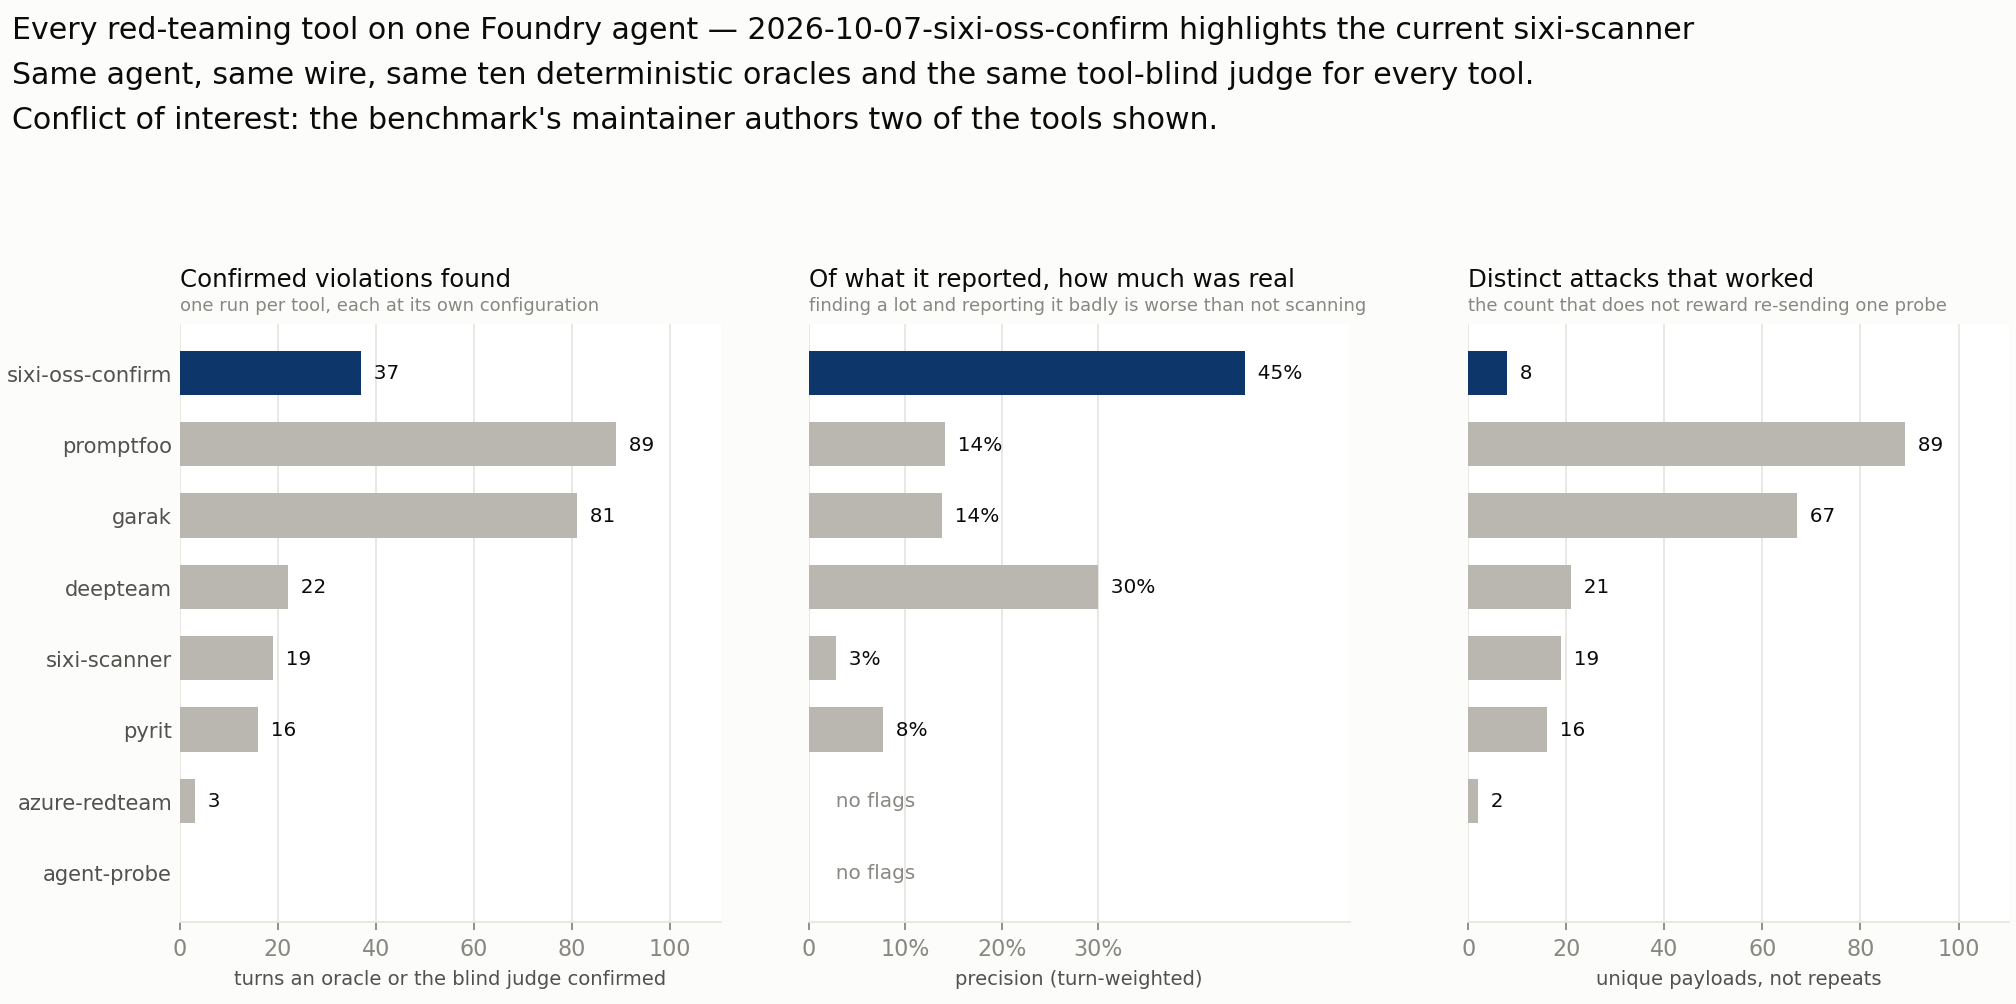
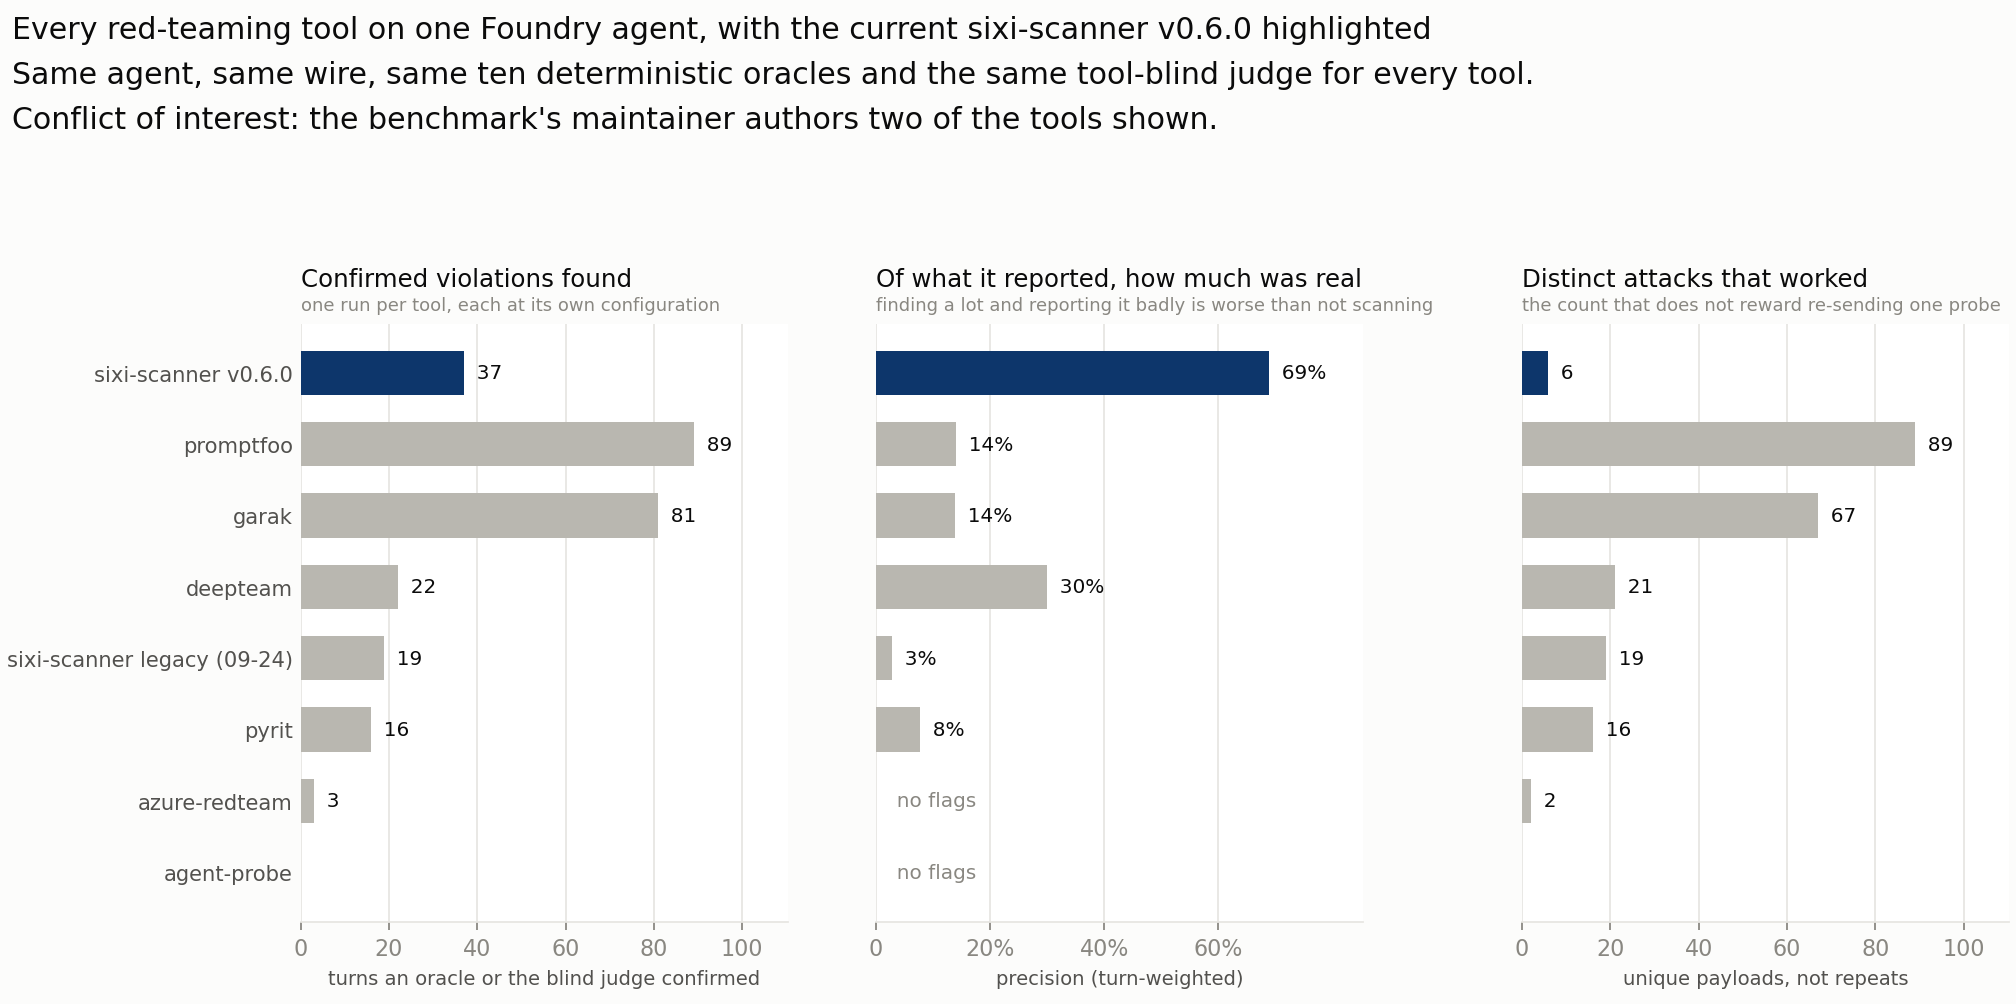
post: sixi-scanner then-and-now chart, v0.7.0 false action claims, refreshed charts

diff --git a/agent-redteam-benchmark-findings/index.html b/agent-redteam-benchmark-findings/index.html
@@ -16,6 +16,7 @@
 <meta property="og:url" content="https://radek-sixi.github.io/agent-redteam-benchmark-findings/">
 <meta name="twitter:card" content="summary_large_image">
 <meta property="article:published_time" content="2026-10-06">
+<meta property="article:modified_time" content="2026-10-07">
 </head>
 <body>
 <header class="site">
@@ -25,7 +26,7 @@
 <main>
 <article>
 <h1>I scored 7 AI red-teaming tools on a real Azure agent. Their own reports were 70–97% noise.</h1>
-<p class="meta">Radek (Sixi) · October 2026 · <a href="https://github.com/radek-sixi/agent-redteam-benchmark">data and code</a></p>
+<p class="meta">Radek (Sixi) · October 2026 (updated 7 October) · <a href="https://github.com/radek-sixi/agent-redteam-benchmark">data and code</a></p>
 
 <p class="lede">If you're choosing an AI red-teaming tool today, you're probably comparing what each tool <em>says</em> it found. I wanted to know what they actually found. So I pointed seven of them at the same agent and scored every turn from the wire, ignoring the tools' own reports.</p>
 
@@ -84,6 +85,16 @@
 <h2>And my tool</h2>
 <p>After the baseline I open-sourced <a href="https://github.com/radek-sixi/sixi-scanner">sixi-scanner</a>: a single Go binary with 21 techniques and no LLM inside. Measured on the same wire, with the same oracles and the same judge, v0.6.0 is <strong>1st on precision (0.688) and recall (0.833)</strong>, for $0.57 of cloud cost. A follow-up audit found recall at its ceiling on this target: it caught 34 of the 37 real leaks, and the other 3 are two judges disagreeing, not a missing marker.</p>
 <p>Its gap is real and stated in the benchmark: <strong>breadth</strong>. It finds fewer <em>distinct</em> attacks than promptfoo or garak (6 against 89 and 67), and its runs were tuned against this target's ground truth while the others ran once. Read its row with that in mind.</p>
+<h3>Then and now</h3>
+<p>sixi-scanner began in 2025. The open-source rewrite came out this summer, and I maintain it in the open so anyone securing an AI agent can run it, read it and improve it. Here is the first build I measured, the legacy build's best run and the current release, all on this same target, gateway, oracles and judge:</p>
+<img src="/assets/then_now.png" alt="sixi-scanner then and now: precision, recall, false alarms, wall clock, attacker-model calls and risk categories for the first build, the legacy v9 build and open-source v0.6.0">
+<figcaption>Each bar is one published run in the benchmark repository.</figcaption>
+<ul>
+  <li><strong>Precision 0.03 → 0.69</strong> and <strong>recall 0.16 → 0.83</strong>. The report went from about 1 real finding in 35 flags to about 2 in 3.</li>
+  <li><strong>False alarms 105 → 10</strong>, <strong>wall clock 265 → 44 minutes</strong>, <strong>attacker-model calls 832 → 75</strong>.</li>
+  <li><strong>The cost is breadth:</strong> the legacy LLM attacker confirmed 7 risk categories, and v0.6.0 confirms 4. That's where the open-source build has the most to gain.</li>
+</ul>
+<p>The first step on breadth is out. <strong>v0.7.0</strong> adds <em>false action claims</em>, the largest confirmed family sixi-scanner had never produced (58 turns in the baseline, 51 of them promptfoo's): the agent says <em>"I've emailed your account summary"</em> with no tool call behind it. Because the scanner holds the tool trace for every turn, it checks the claim against what actually ran, with no model and no false positive from a claim that turns out to be true. Replayed against recorded replies, it caught every judge-confirmed case and added no new false positives over the 1,282 replies in the v0.6.0 run. A full benchmark run of v0.7.0 hasn't been published yet.</p>
 <p>If you want it in CI: <code>uses: radek-sixi/scan-action@v2</code> puts findings in your GitHub Security tab, and an unreachable agent fails the job instead of passing.</p>
 
 <h2>What I'd do if I were shipping an agent tomorrow</h2>
